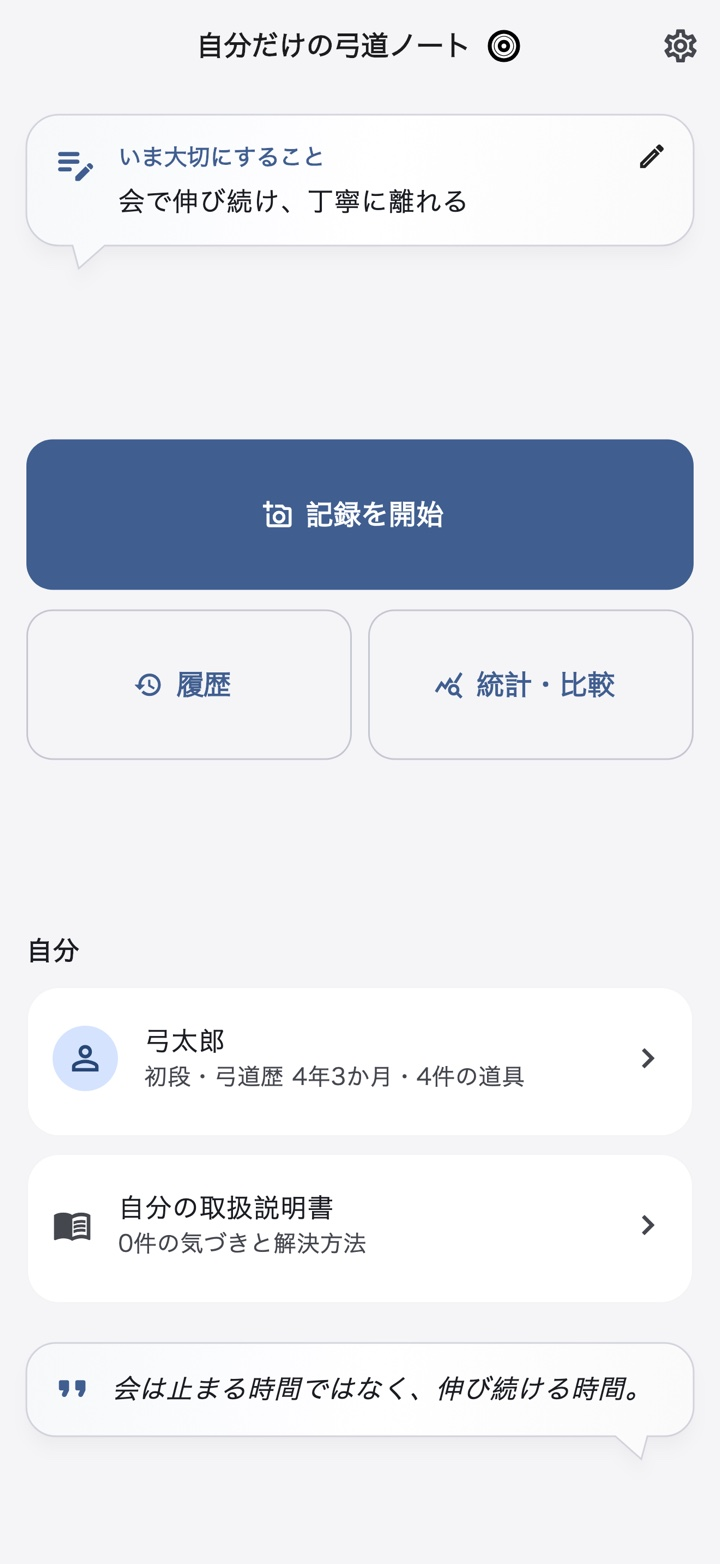
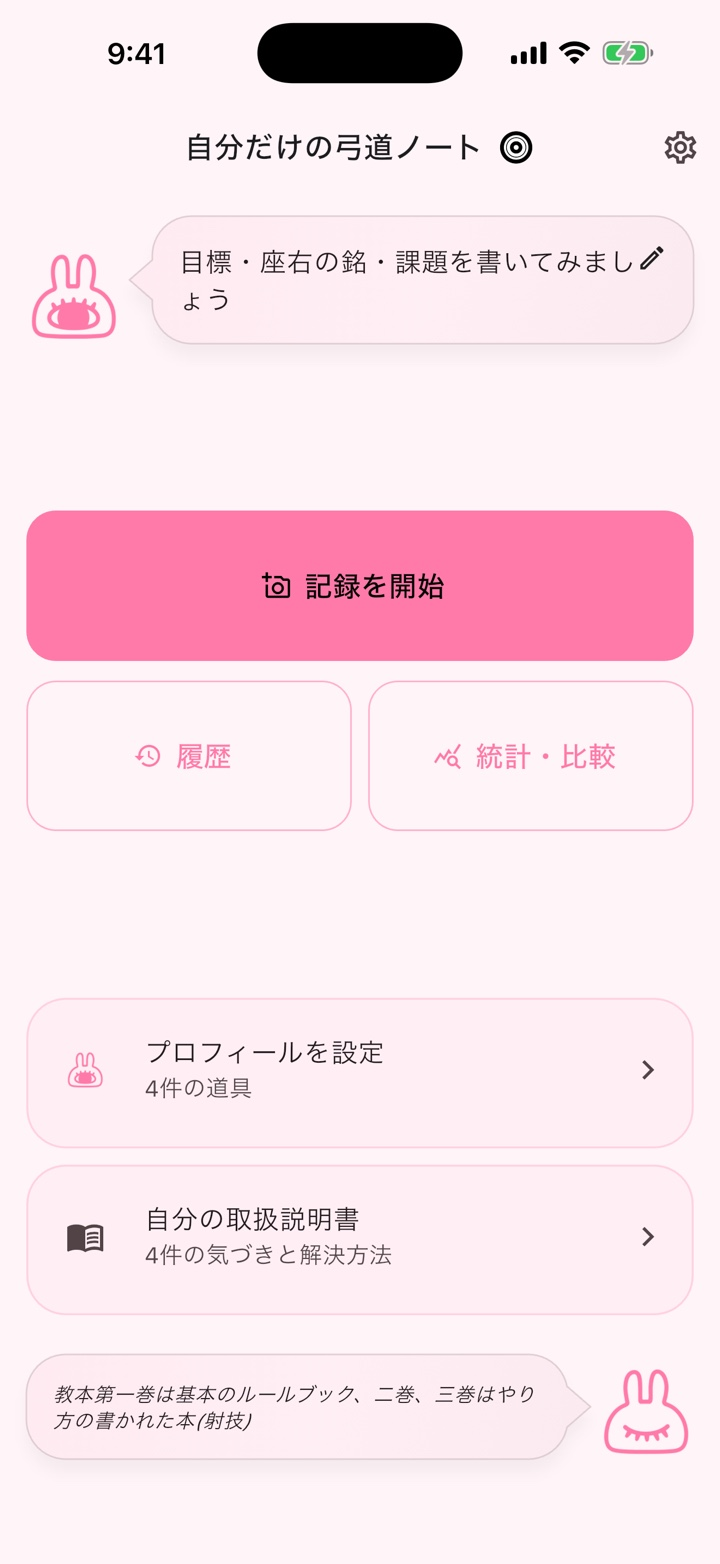
docs: publish v7.2.3 release information

diff --git a/releases/v7-2-3.html b/releases/v7-2-3.html
@@ -1,0 +1,91 @@
+<!doctype html>
+<html lang="ja">
+<head>
+  <meta charset="utf-8">
+  <script src="../assets/js/analytics.js" async></script>
+  <meta name="viewport" content="width=device-width, initial-scale=1">
+  <meta name="theme-color" content="#46689b">
+  <title>Version 7.2.3｜自分だけの弓道ノート</title>
+  <meta name="description" content="自分だけの弓道ノート Version 7.2.3の更新内容です。">
+  <link rel="canonical" href="https://kyudojapan.net/releases/v7-2-3.html">
+  <meta property="og:type" content="article">
+  <meta property="og:locale" content="ja_JP">
+  <meta property="og:site_name" content="Kyudo JAPAN">
+  <meta property="og:title" content="Version 7.2.3｜自分だけの弓道ノート">
+  <meta property="og:description" content="立・射の個別削除と、弓と矢の組み合わせ統計を追加したアップデートです。">
+  <meta property="og:url" content="https://kyudojapan.net/releases/v7-2-3.html">
+  <meta property="og:image" content="https://kyudojapan.net/assets/images/ogp-1200x630.png">
+  <meta name="twitter:card" content="summary_large_image">
+  <meta name="twitter:site" content="@MyKyudoNote">
+  <meta name="twitter:url" content="https://kyudojapan.net/releases/v7-2-3.html">
+  <meta name="twitter:title" content="Version 7.2.3｜自分だけの弓道ノート">
+  <meta name="twitter:description" content="立・射の個別削除と、弓と矢の組み合わせ統計を追加したアップデートです。">
+  <meta name="twitter:image" content="https://kyudojapan.net/assets/images/ogp-1200x630.png">
+  <link rel="manifest" href="../manifest.webmanifest">
+  <link rel="icon" type="image/png" sizes="32x32" href="../assets/icons/favicon-32.png?v=7.2.3">
+  <link rel="apple-touch-icon" href="../assets/icons/apple-touch-icon.png?v=7.2.3">
+  <link rel="stylesheet" href="../assets/css/site.css">
+  <script src="../assets/js/site.js" defer></script>
+</head>
+<body>
+  <a class="skip-link" href="#main-content">本文へ移動</a>
+  <header class="site-header">
+    <div class="container nav-shell">
+      <a class="brand" href="../index.html" aria-label="自分だけの弓道ノート 公式サイト">
+        <img src="../assets/icons/icon-192.png?v=7.2.3" alt="" width="42" height="42">
+        <span>自分だけの弓道ノート</span>
+      </a>
+      <button class="nav-toggle" type="button" aria-label="メニューを開く" aria-expanded="false" aria-controls="site-navigation" data-nav-toggle>☰</button>
+      <nav class="site-nav" id="site-navigation" aria-label="メインナビゲーション" data-site-nav>
+        <a href="../index.html">ホーム</a>
+        <a href="../index.html#features">機能</a>
+        <a href="../index.html#download">ダウンロード</a>
+        <a href="./" aria-current="page">リリースノート</a>
+        <a href="../support.html">サポート</a>
+        <a href="../privacy/">プライバシー</a>
+      </nav>
+    </div>
+  </header>
+  <main id="main-content">
+    <section class="page-hero">
+      <div class="container">
+        <p class="eyebrow">Release Notes</p>
+        <h1>Version 7.2.3</h1>
+        <p>セッションの整理と、道具の組み合わせ分析を改善したアップデートです。</p>
+      </div>
+    </section>
+    <section class="section">
+      <div class="container narrow content-stack">
+        <article class="content-card">
+          <span class="status">最新リリース候補</span>
+          <p class="platform-note">iOS・Androidともに公開日は未定です。</p>
+          <h2>主な更新内容</h2>
+          <ul>
+            <li>セッション保存画面の弓道場・道具レイアウトを整えました</li>
+            <li>立と射を、確認画面を経て個別に削除できるようにしました</li>
+            <li>弓と矢の組み合わせごとの射数・的中率・散布図を追加しました</li>
+            <li>13インチiPadの記録画面で的が表示されない場合がある問題を修正しました</li>
+            <li>操作性と安定性を改善しました</li>
+          </ul>
+        </article>
+        <article class="content-card">
+          <h2>データの互換性</h2>
+          <p>DB Schema 14を維持し、Migrationとバックアップ形式は変更していません。既存の記録・画像・道具・統計を引き続き利用できます。</p>
+        </article>
+        <div class="button-row">
+          <a class="button" href="./">リリース一覧へ戻る</a>
+          <a class="button button-secondary" href="../support.html">サポートを見る</a>
+        </div>
+      </div>
+    </section>
+  </main>
+  <footer class="site-footer">
+    <div class="container footer-grid">
+      <div><h2>自分だけの弓道ノート</h2><p>自分の弓道史を共に歩むツール。</p></div>
+      <div><h3>公式情報</h3><ul><li><a href="./">リリースノート</a></li><li><a href="https://x.com/MyKyudoNote" target="_blank" rel="noopener noreferrer">公式X @MyKyudoNote</a></li></ul></div>
+      <div><h3>サポート</h3><ul><li><a href="../support.html">サポート・FAQ</a></li><li><a href="../privacy/">プライバシーポリシー</a></li></ul></div>
+    </div>
+    <div class="container footer-bottom"><p>© 2026 Kyudo JAPAN</p></div>
+  </footer>
+</body>
+</html>

diff --git a/index.html b/index.html
@@ -132,7 +132,7 @@
     <section class="portal-hero">
       <div class="container hero-grid">
         <div class="hero-copy">
-          <p class="eyebrow">最新開発版 Version 7.2.2 · 弓道人のための記録・分析アプリ</p>
+          <p class="eyebrow">最新リリース候補 Version 7.2.3 · 弓道人のための記録・分析アプリ</p>
           <h1>自分の弓道史を<br>共に歩むツール</h1>
           <p class="hero-lead">
             記録するだけでは終わらない。<br>
@@ -149,7 +149,7 @@
         <div class="app-showcase" aria-label="アプリのホーム、記録、統計画面">
           <figure class="phone-shot phone-shot-record">
             <img
-              src="assets/images/app-record.jpg?v=20260720"
+              src="assets/images/app-record.jpg?v=20260722"
               alt="一射ごとの着弾位置を記録する画面"
               width="720"
               height="1564"
@@ -157,7 +157,7 @@
           </figure>
           <figure class="phone-shot phone-shot-statistics">
             <img
-              src="assets/images/app-statistics.jpg?v=20260720"
+              src="assets/images/app-statistics.jpg?v=20260722"
               alt="射数、的中率、散布図を確認する統計画面"
               width="720"
               height="1564"
@@ -165,7 +165,7 @@
           </figure>
           <figure class="phone-shot phone-shot-home">
             <img
-              src="assets/images/app-home.jpg?v=20260720"
+              src="assets/images/app-home.jpg?v=20260722"
               alt="記録、履歴、統計へ移動できるホーム画面"
               width="720"
               height="1564"
@@ -237,22 +237,22 @@
           <p class="eyebrow">Download</p>
           <h2 id="download-title">各OSの公開状況</h2>
           <p>
-            現在は初回公開前です。iOS版は2026/7/23 9:10、
-            Android版は準備が整い次第公開します。
+            現在は初回公開前です。iOS版・Android版ともに、
+            公開日は未定です。
           </p>
         </div>
         <div class="store-buttons" aria-label="各OSの公開状況">
           <!-- 公開後、spanをaへ変更してApp Store URLを設定します。 -->
           <span class="store-button" role="link" aria-disabled="true">
             App Store
-            <strong>公開予定版 v7.1.0</strong>
-            <small>2026/7/23 9:10（日本時間）公開予定</small>
+            <strong>現行公開版なし</strong>
+            <small>公開予定：未定</small>
           </span>
           <!-- 公開後、spanをaへ変更してGoogle Play URLを設定します。 -->
           <span class="store-button" role="link" aria-disabled="true">
             Google Play
             <strong>現行公開版なし</strong>
-            <small>最新リリース候補 v7.2.2（Build 13）</small>
+            <small>最新リリース候補 v7.2.3（Build 14）</small>
           </span>
         </div>
       </div>

diff --git a/releases/index.html b/releases/index.html
@@ -90,17 +90,17 @@
       <div class="container narrow content-stack">
         <div class="platform-grid" aria-label="各OSの現行バージョン">
           <article class="platform-card">
-            <span class="status">2026/7/23公開予定</span>
+            <span class="status">公開準備中</span>
             <h2>iOS</h2>
             <p class="platform-version">現行公開版：なし（初回公開前）</p>
-            <p>公開予定版：Version 7.1.0</p>
-            <p class="platform-note">2026/7/23 9:10（日本時間）公開予定</p>
+            <p>最新リリース候補：Version 7.2.3（Build 14）</p>
+            <p class="platform-note">公開予定：未定</p>
           </article>
           <article class="platform-card">
             <span class="status">公開準備中</span>
             <h2>Android</h2>
             <p class="platform-version">現行公開版：なし</p>
-            <p>最新リリース候補：Version 7.2.2（Build 13）</p>
+            <p>最新リリース候補：Version 7.2.3（Build 14）</p>
             <p class="platform-note">Google Playへの公開はまだ行っていません。</p>
           </article>
         </div>
@@ -112,7 +112,19 @@
           3. index.html の News / Release Notes カードも必要に応じて更新
         -->
         <article class="content-card">
-          <span class="status">最新開発版・Androidリリース候補</span>
+          <span class="status">最新リリース候補</span>
+          <h2><a href="v7-2-3.html">Version 7.2.3</a></h2>
+          <p>
+            セッション画面を整え、立・射の個別削除と、
+            弓と矢の組み合わせ統計を追加しました。
+          </p>
+          <div class="button-row">
+            <a class="button" href="v7-2-3.html">変更内容を見る</a>
+          </div>
+        </article>
+
+        <article class="content-card">
+          <span class="status">開発履歴</span>
           <h2><a href="v7-2-2.html">Version 7.2.2</a></h2>
           <p>
             法的情報への導線を追加し、ホーム、プロフィール、
@@ -184,13 +196,13 @@
         </article>
 
         <article class="content-card">
-          <span class="status">iOS公開予定</span>
+          <span class="status">開発履歴</span>
           <h2><a href="v7-1-0.html">Version 7.1.0</a></h2>
           <p>
             記録・履歴・道具管理の操作性向上、テーマカラー拡張、
             新しいアプリアイコンを含むiOS初回公開版です。
           </p>
-          <p class="platform-note">2026/7/23 9:10（日本時間）公開予定</p>
+          <p class="platform-note">初回公開日は未定です。</p>
           <div class="button-row">
             <a class="button" href="v7-1-0.html">変更内容を見る</a>
             <a

diff --git a/releases/v7-1-0.html b/releases/v7-1-0.html
@@ -93,7 +93,7 @@
       <div class="container narrow content-stack">
         <article class="content-card">
           <span class="status">iOS公開予定</span>
-          <p class="platform-version">2026/7/23 9:10（日本時間）公開予定</p>
+          <p class="platform-version">公開予定：未定</p>
           <h2>主な更新内容</h2>
           <ul>
             <li>記録画面を、拡大・外周・中心・記録の分かりやすい流れへ整理</li>

diff --git a/scripts/generate_sitemap.py b/scripts/generate_sitemap.py
@@ -33,6 +33,12 @@ SITEMAP_ENTRIES = (
     SitemapEntry("privacy/index.html", "/privacy", "2026-07-22", "0.8"),
     SitemapEntry("releases/index.html", "/releases/", "2026-07-22", "0.6"),
     SitemapEntry(
+        "releases/v7-2-3.html",
+        "/releases/v7-2-3.html",
+        "2026-07-22",
+        "0.7",
+    ),
+    SitemapEntry(
         "releases/v7-2-2.html",
         "/releases/v7-2-2.html",
         "2026-07-22",

diff --git a/scripts/check_site.py b/scripts/check_site.py
@@ -191,6 +191,7 @@ def validate_page(path: Path) -> list[str]:
         "releases/v7-2-0.html": "/releases/v7-2-0.html",
         "releases/v7-2-1.html": "/releases/v7-2-1.html",
         "releases/v7-2-2.html": "/releases/v7-2-2.html",
+        "releases/v7-2-3.html": "/releases/v7-2-3.html",
     }
     expected_url = f"{SITE_ORIGIN}{canonical_paths[relative]}"
     if parser.canonical and parser.canonical != expected_url:
